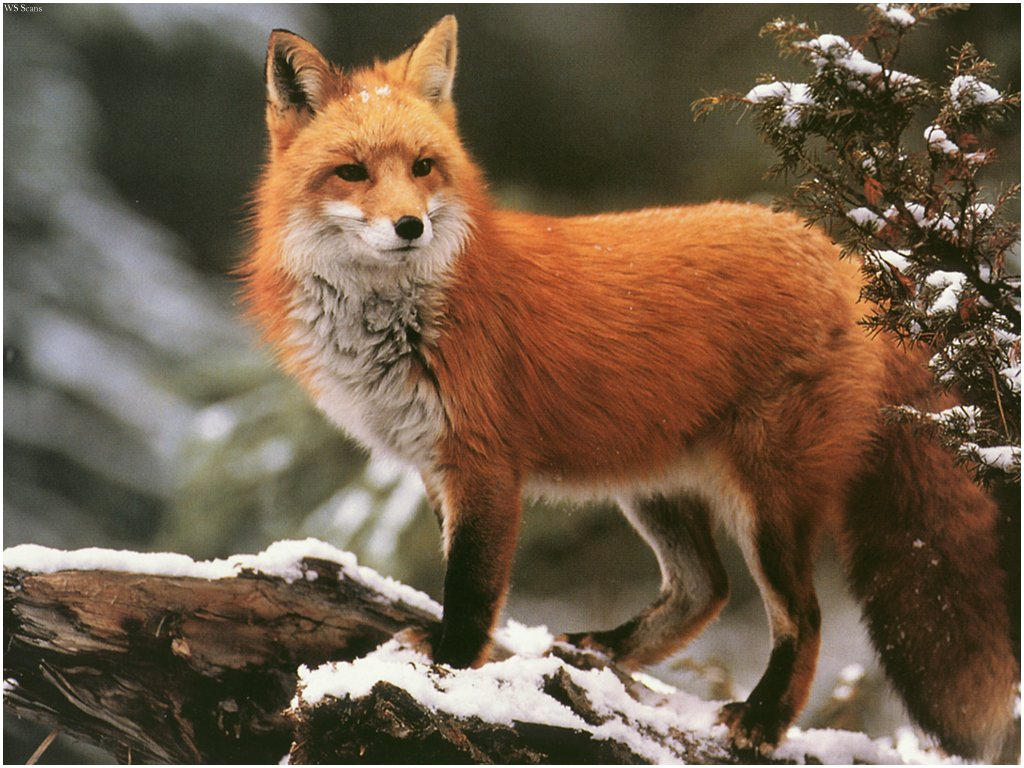
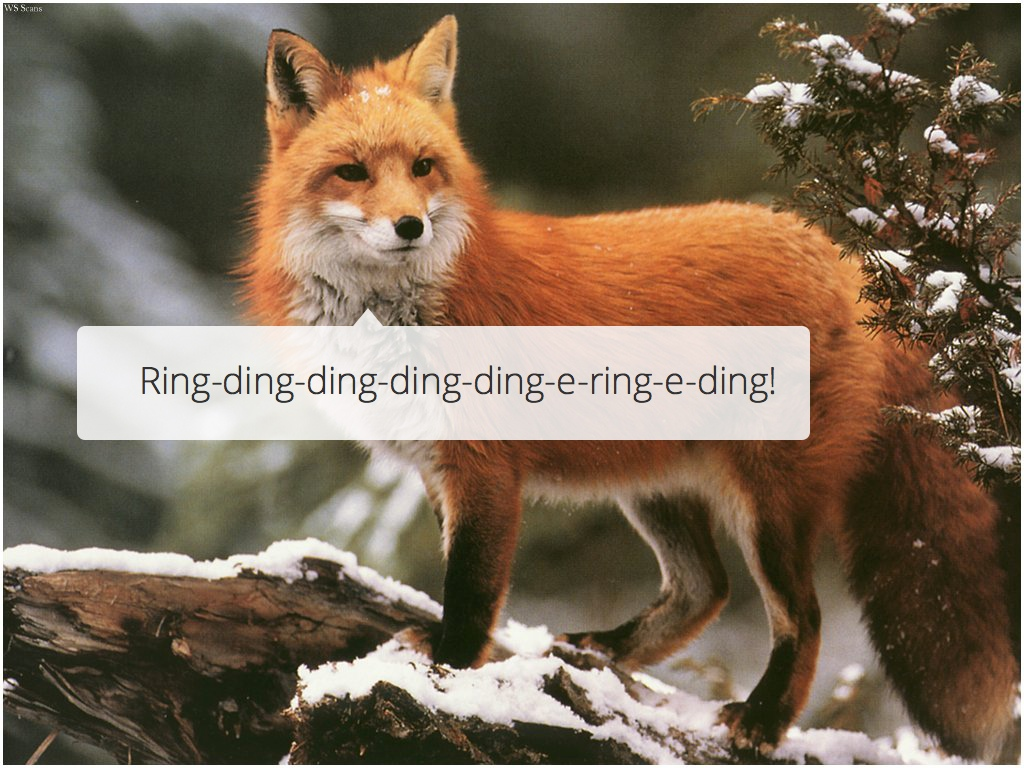
Added a blank image for making new foxes

Changed region(s): [[0.0625, 0.4062, 0.8125, 0.5938]]

diff --git a/README.md b/README.md
@@ -1,3 +1,3 @@
 ##What does the fox say?
 
-![Nothing...](fox.jpg)
+![Ring-ding-ding-ding-ding-e-ring-e-ding](fox.jpg)
